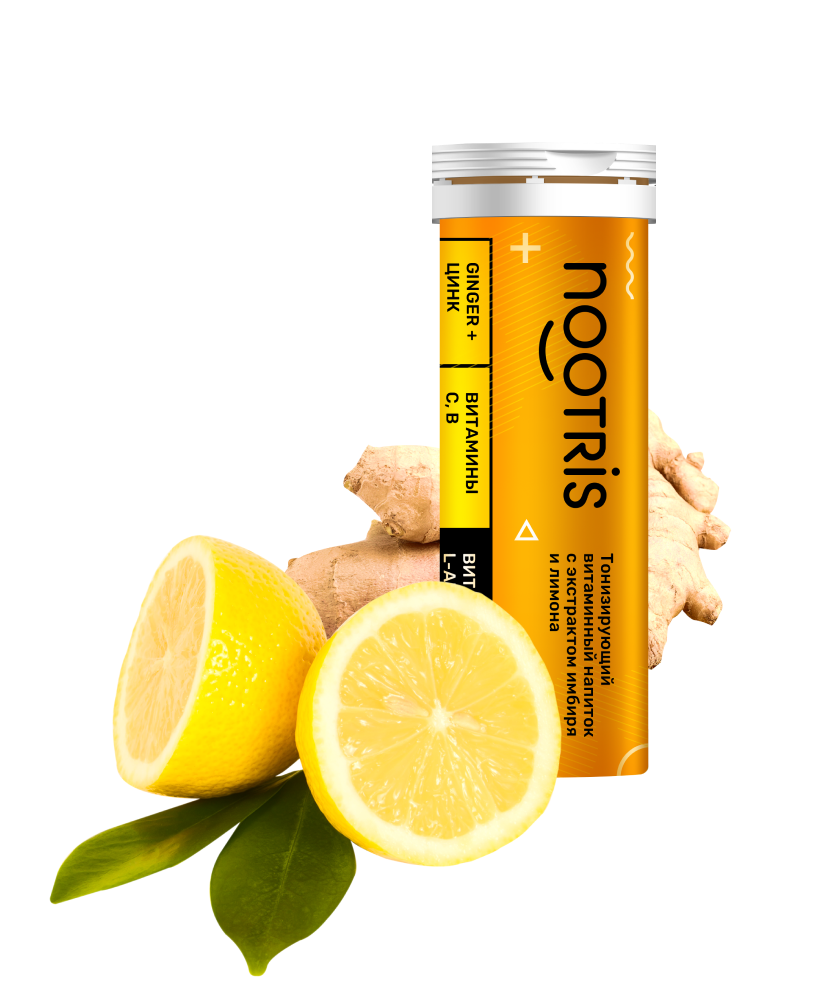
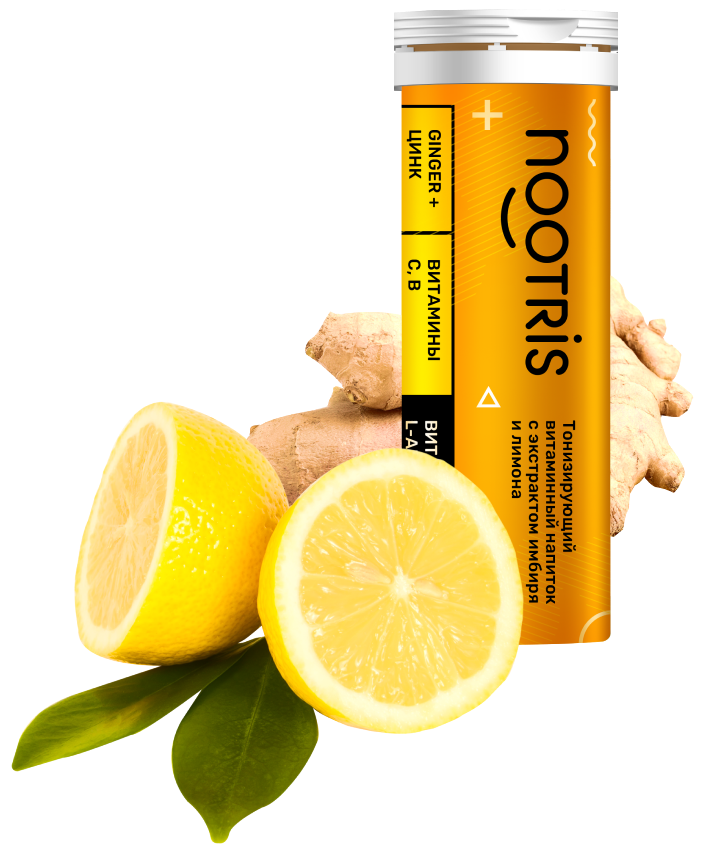
hotfix

diff --git a/index.html b/index.html
@@ -42,14 +42,6 @@
           <p class="promo__description">Вашему организму во время пандемии и сезонных простуд</p>
         </div>
 
-        <!-- <div class="img-container">
-          <img class="img-container__element img-container__element_ginger" src="./images/ginger.png" alt="имбирь">
-          <img class="img-container__element img-container__element_nootris" src="./images/nootris.png" alt="нутрис">
-          <img class="img-container__element img-container__element_lemon" src="./images/Lemon.png" alt="лимон">
-        </div> -->
-
-        <!-- <div class="img-container"></div> -->
-        <!-- <div class="promo__bg"></div> -->
         <img class="promo__bg" src="./images/main_bg.png" alt="bg">
       </div>
 

diff --git a/pages/index.css b/pages/index.css
@@ -2,7 +2,6 @@
 @import url('../fonts/fonts.css');
 @import url('../blocks/header/header.css');
 @import url('../blocks/promo/promo.css');
-@import url('../blocks/img-container/img-container.css');
 @import url('../blocks/discount/discount.css');
 @import url('../blocks/price/price.css');
 @import url('../blocks/advantages/advantages.css');

diff --git a/blocks/promo/promo__bg/promo__bg.css b/blocks/promo/promo__bg/promo__bg.css
@@ -1,6 +1,6 @@
 .promo__bg {
   position: absolute;
-  right: -64px;
-  top: -96px;
+  right: 0;
+  bottom: -112px;
   z-index: 10;
 }

diff --git a/blocks/promo/__container/promo__container.css b/blocks/promo/__container/promo__container.css
@@ -3,4 +3,5 @@
   position: relative;
   margin: 0 auto;
   padding: 96px 0;
+  display: flex;
 }
